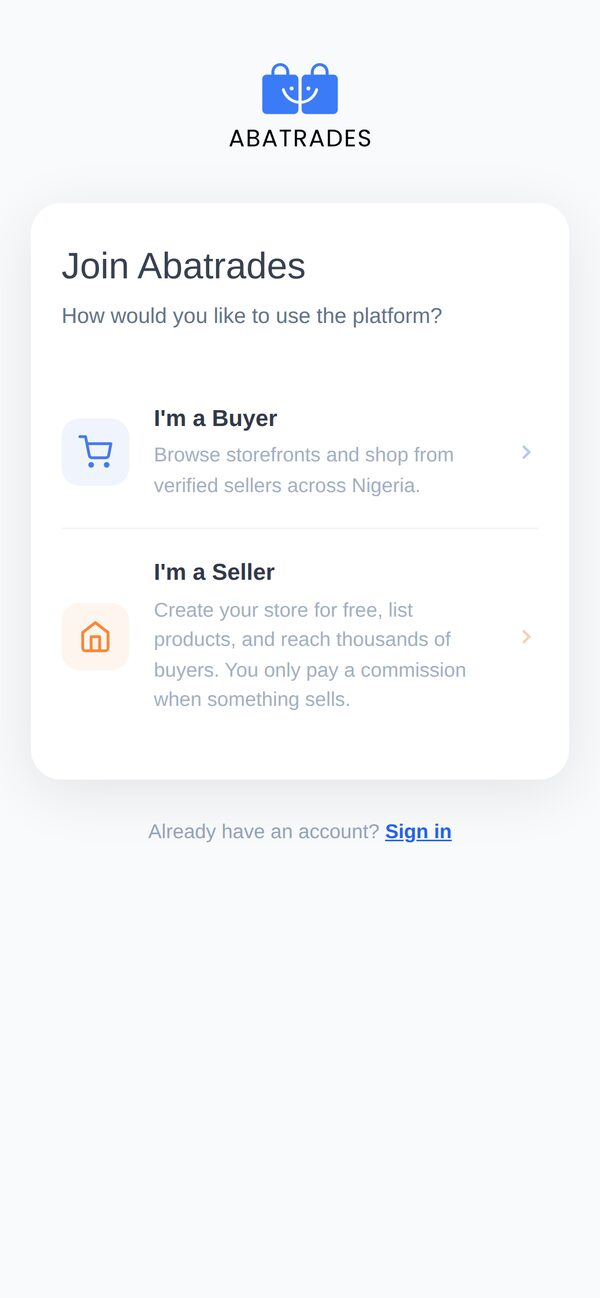
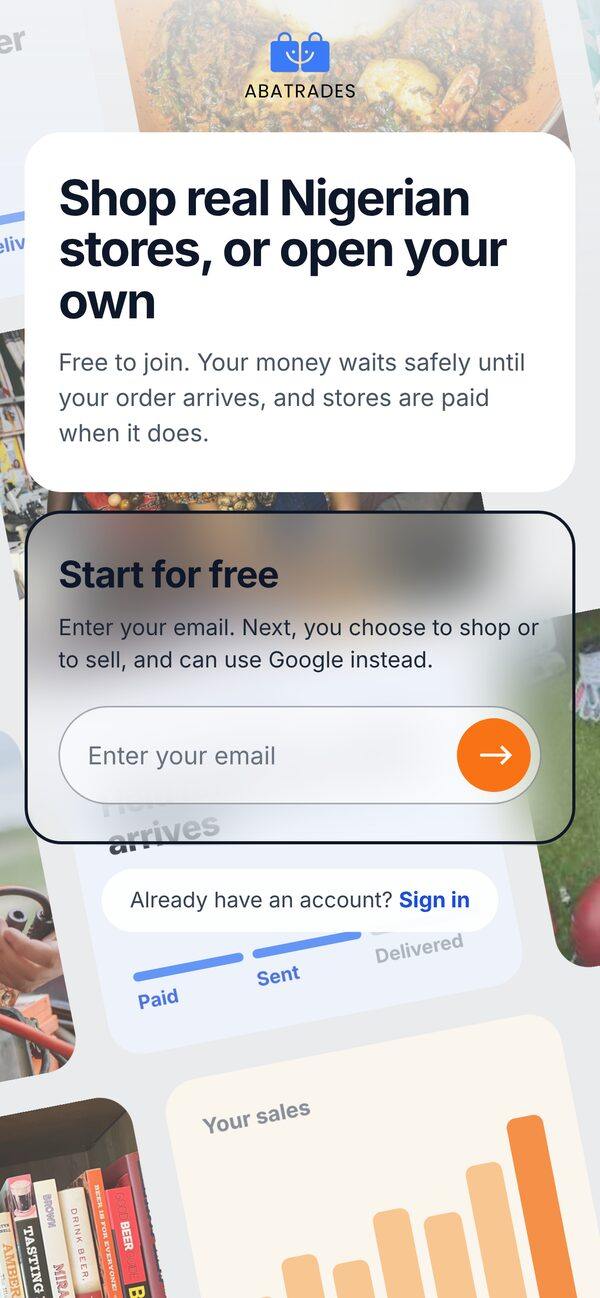
Refresh Abatrades showcase for the restructured site
New captures of abatrades.org after its October 2026 restructure,
now with live data. Gallery grows to six pages (Marketplace, About,
Sell, Dropship, Warehouse, Join) with captions taken from each page.
Company shown as Abatrades Limited; onboarding added to "What I
built". Buyer Protection left out: its fee and timing values were
still loading when captured.

Claude-Session: https://claude.ai/code/session_01DKHk8cp9bjhiXwye5tCxJK

diff --git a/index.html b/index.html
@@ -31,7 +31,7 @@
   <link rel="stylesheet"
     href="https://fonts.googleapis.com/css2?family=Space+Grotesk:wght@400;500;600;700&family=IBM+Plex+Mono:wght@400;500&display=swap">
 
-  <link rel="stylesheet" href="assets/css/site.css?v=20261031a">
+  <link rel="stylesheet" href="assets/css/site.css?v=20261031b">
 
   <script type="application/ld+json">
   {
@@ -473,7 +473,7 @@
 
         <dl class="venture-role" data-reveal>
           <div><dt>Role</dt><dd>Co-founder &amp; CTO</dd></div>
-          <div><dt>Company</dt><dd>Abatrades</dd></div>
+          <div><dt>Company</dt><dd>Abatrades Limited</dd></div>
           <div><dt>Market</dt><dd>Nigeria and the diaspora</dd></div>
           <div><dt>Status</dt><dd><span class="live-dot" aria-hidden="true"></span>Live in production</dd></div>
           <div><dt>Site</dt><dd><a href="https://abatrades.org" target="_blank" rel="noopener">abatrades.org</a></dd></div>
@@ -509,36 +509,45 @@
           </div>
 
           <p class="showcase__cap" aria-live="polite">
-            The storefront: browse by category, search across products and stores, with buyer protection promised
-            up front.
+            The storefront: real stores from all over Nigeria, with buyer protection shown before checkout.
           </p>
 
           <div class="showcase__tabs" role="tablist" aria-label="Abatrades pages">
             <button type="button" role="tab" aria-selected="true" data-path="/"
               data-desktop="assets/img/abatrades/home-desktop.jpg" data-mobile="assets/img/abatrades/home-mobile.jpg"
               data-alt="Abatrades marketplace homepage"
-              data-cap="The storefront: browse by category, search across products and stores, with buyer protection promised up front.">
+              data-cap="The storefront: real stores from all over Nigeria, with buyer protection shown before checkout.">
               <i>01</i><b>Marketplace</b>
             </button>
+            <button type="button" role="tab" aria-selected="false" data-path="/about"
+              data-desktop="assets/img/abatrades/about-desktop.jpg" data-mobile="assets/img/abatrades/about-mobile.jpg"
+              data-alt="About Abatrades page"
+              data-cap="About: &quot;A Nigerian marketplace you can check up on.&quot; Abatrades Limited is a registered Nigerian company.">
+              <i>02</i><b>About</b>
+            </button>
             <button type="button" role="tab" aria-selected="false" data-path="/what-is-abatrades"
-              data-desktop="assets/img/abatrades/what-is-abatrades-desktop.jpg"
-              data-mobile="assets/img/abatrades/what-is-abatrades-mobile.jpg"
+              data-desktop="assets/img/abatrades/what-is-abatrades-desktop.jpg" data-mobile="assets/img/abatrades/what-is-abatrades-mobile.jpg"
               data-alt="What is Abatrades page for sellers"
-              data-cap="For sellers: open a store free and pay commission only when something sells, with importation, warehousing, marketing and logistics handled.">
-              <i>02</i><b>Sell</b>
+              data-cap="For sellers: open a storefront free, and Abatrades earns only when you sell.">
+              <i>03</i><b>Sell</b>
+            </button>
+            <button type="button" role="tab" aria-selected="false" data-path="/dropshipping"
+              data-desktop="assets/img/abatrades/dropshipping-desktop.jpg" data-mobile="assets/img/abatrades/dropshipping-mobile.jpg"
+              data-alt="Abatrades dropshipping page"
+              data-cap="Dropshipping: list goods from a catalogue held overseas; nothing is bought until a buyer orders.">
+              <i>04</i><b>Dropship</b>
             </button>
             <button type="button" role="tab" aria-selected="false" data-path="/services"
-              data-desktop="assets/img/abatrades/services-desktop.jpg"
-              data-mobile="assets/img/abatrades/services-mobile.jpg"
+              data-desktop="assets/img/abatrades/services-desktop.jpg" data-mobile="assets/img/abatrades/services-mobile.jpg"
               data-alt="Abatrades warehouse and logistics page"
-              data-cap="Warehouse and logistics: stock stored, packed and delivered, with same-day dispatch on orders confirmed before 2 PM and live tracking.">
-              <i>03</i><b>Warehouse</b>
+              data-cap="Warehouse: stock checked, stored, packed and delivered, with same-day dispatch on orders confirmed before 2 PM.">
+              <i>05</i><b>Warehouse</b>
             </button>
             <button type="button" role="tab" aria-selected="false" data-path="/join"
               data-desktop="assets/img/abatrades/join-desktop.jpg" data-mobile="assets/img/abatrades/join-mobile.jpg"
-              data-alt="Abatrades sign-up choice between buyer and seller"
-              data-cap="Two-sided onboarding: buyers and sellers each get their own path from the first screen.">
-              <i>04</i><b>Join</b>
+              data-alt="Abatrades sign-up page"
+              data-cap="Sign-up: one email field, then shop or sell, with Google sign-in as an alternative.">
+              <i>06</i><b>Join</b>
             </button>
           </div>
         </div>
@@ -566,6 +575,11 @@
                 <b>Storefronts</b>
                 <span>A store builder where Premium sellers design their own store with logo, banner and pages, and
                   carry a verified tick.</span>
+              </li>
+              <li>
+                <b>Onboarding</b>
+                <span>One sign-up for both sides: enter an email, then choose to shop or to sell, with Google
+                  sign-in as an alternative.</span>
               </li>
               <li>
                 <b>Discovery</b>
@@ -1755,8 +1769,8 @@ SigninLogs
     </form>
   </dialog>
 
-  <script src="assets/js/site.js?v=20261031a" defer></script>
-  <script src="assets/js/motion.js?v=20261031a" defer></script>
+  <script src="assets/js/site.js?v=20261031b" defer></script>
+  <script src="assets/js/motion.js?v=20261031b" defer></script>
 </body>
 
 </html>
